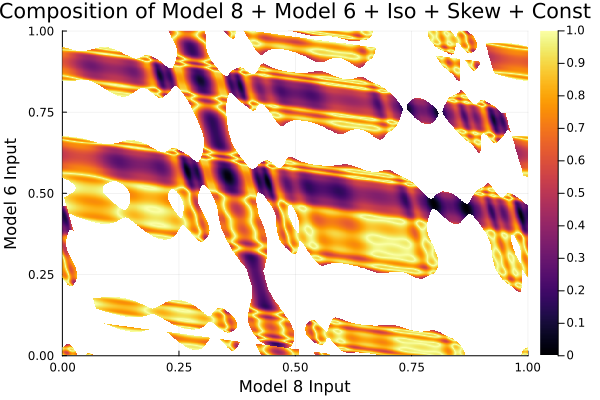
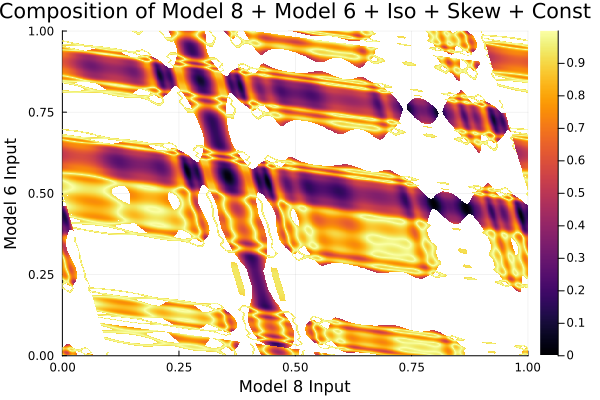
added fault descriptions

diff --git a/manuscript/manuscript.tex b/manuscript/manuscript.tex
@@ -165,29 +165,25 @@ Due to dynamic and adversarial simulation features, each simulation run is coupl
 
 The number of design inputs required for evaluating the simulation scenario is stored in the num\_inputs simulation object parameter after the simulation is constructed.
 
-A simulation run is performed by calling the sim\_eval function with the simulation object , the design parameters, the desired network path (Req. 13), and a fidelity level (Req. 17). This function reports a single value for the fitness score (Req. 5, 15) in the range [0, 1], with 0 being optimal (Req. 16). In the event of an infeasible solution, the fitness score is reported as NaN (Req. 6).
+A simulation run is performed by calling the sim\_eval function with the simulation object, the design parameters, the desired network path (Req. 13), and a fidelity level (Req. 17). This function reports a single value for the fitness score (Req. 5, 15) in the range [0, 1], with 1.0 being optimal (Req. 16). In the event of an infeasible solution, the fitness score is reported as NaN (Req. 6).
 
 After each simulation run, the simulation object parameter num\_function\_evals contains an updated cumulative number of function evaluations since the object was created (Req. 7).
 
 During simulation construction a log of the scenario features and configuration parameters is written to the filename provided in the logfile configuration parameter or the file "logfile.txt" by default (Req. 8).
 
+The foundational element for creating landscapes in the simulation are spline basic functions. Spline basic functions are randomly generated splines using the scenario seed (Req. 2). The number of knots in the spline are randomly chosen using the min and max knots input parameters. Knots are added in series using the equation: $y[1] = rand() - rand(); y[i] = y[i-1] * knot\_feedback + rand() - rand()$. The knot\_feedback parameter is a value between 0 and 1 that determines how autocorrelated each knot is to the previous knot. When querying a spline function, the input and output ranges are clamped [0.0, 1.0].
+
 \colorbox{yellow}{add table for sim configuration parameters}
 
-\colorbox{yellow}{describe simulation architecture.}
-
 \section{Simulation Features}
-
-\subsection{Spline Basic Functions}
-
-The foundational element for creating landscapes in the simulation are spline basic functions. Spline basic functions are randomly generated splines using the scenario seed (Req. 2). The number of knots in the spline are randomly chosen using the min and max knots input parameters. Knots are added in series using the equation: y[1] = rand() - rand(); y[i] = y[i-1] * knot\_feedback + rand() - rand(). The knot\_feedback parameter is a value between 0 and 1 that determines how autocorrelated each knot is to the previous knot. When querying a spline function, the input and output ranges are clamped [0.0, 1.0].
 
 \subsection{Governing Functions and Model Functions}
 
 The governing functions and model functions are created using the spline basic function generator (Req. 22, 23).
 The model response landscape is created by mapping design variable inputs to model function outputs through a governing function (Req. 24).
-For example, a governing function g(x) (Fig. \ref{fig:basic_eq_mdl_1_gov_fun}) is used to map input value x to model function f(u) (Fig. \ref{fig:basic_eq_mdl_1_mdl_fun}) resulting in a multi-featured model response landscape f(g(x)) (Fig. \ref{fig:basic_eq_mdl_1_mdl_resp}).
+For example, a governing function $g(x)$ (Fig. \ref{fig:basic_eq_mdl_1_gov_fun}) is used to map input value x to model function $f(u)$ (Fig. \ref{fig:basic_eq_mdl_1_mdl_fun}) resulting in a multi-featured model response landscape $f(g(x))$ (Fig. \ref{fig:basic_eq_mdl_1_mdl_resp}).
 Figure \ref{fig:landscape_mdl_19_mdl_resp} illustrates an example model response with many combined features: smooth, discontinuous, narrow and wide basins, shallow and deep basins, multi-modal, flattened, and non-linear (Req. 28). This example shows variable conditioning between the input and response (Req. 31), many potential optimal locations with values at 1.0 to support niching optimization methods (Req. 18), as well as multiple deceptive basins near 1.0 (Req. 29).
-Flattening may occur when a governing or model function is clamped in the range [0, 1], however additional random flattening can be injected using the enable\_flattening configuration parameter (Figure \ref{fig:flat_mdl_1_mdl_resp_flat}). Moreover, additional random discontinuity can be injected by randomly inverting regions using the enable\_inversion configuration parameter (Figure \ref{fig:invert_mdl_1_mdl_resp_invert}).
+Flattening may occur when a governing or model function is clamped in the range [0, 1], however additional random flattening can be injected using the enable\_flattening configuration parameter (Fig. \ref{fig:flat_mdl_1_mdl_resp_flat}). Moreover, additional random discontinuity can be injected by randomly inverting regions using the enable\_inversion configuration parameter (Fig. \ref{fig:invert_mdl_1_mdl_resp_invert}).
 
 \begin{figure}
 	\centering
@@ -259,6 +255,8 @@ During the creation of composition functions, pairs of dimensions are randomly c
 
 Feasibility constraints are created on coupled composition pairs using a constraint function. The constraint function is created using the spline basic function generator (Req. 32). One of the pair input values is selected as the constraint function input. Feasibily is determine by checking if the other pair input value is above or below (chosen at random for the constraint) of the spline response. The couple pair input values are transformed using their respective governing functions prior to evaluating the constraint function creating a varied feasibility landscape (Req. 33). Figure \ref{fig:2d_const_3_1_iso_skew_const} builds on the previous skewing example with additional infeasibility regions shown in white (Req. 34). Constraints are applied to pairs of inputs resulting in separable and non-separable constraints when more than one constraint is present (Req. 35).
 
+A couple margins are included to prevent a scenario in which there are no feasible optimal solutions. The first is an input margin controlled via the constraint\_input\_margin configuration parameter that requires the input variable enter the infeasible region by at least that amount before infeasibility is declared. The second margin is a small margin around optimal locations controlled via the constraint\_optimal\_margin configuration parameter. This margin results in small islands of optimal feasible solutions in Figure \ref{fig:2d_const_3_1_iso_skew_const}.
+
 \begin{figure}
 	\centering
 	\includegraphics[width=0.5\textwidth]{2d_const_3_1_iso_skew.png}
@@ -272,8 +270,30 @@ Feasibility constraints are created on coupled composition pairs using a constra
 	\caption{Composition function response with added feasibility constraint feature.}
 	\label{fig:2d_const_3_1_iso_skew_const}
 \end{figure}
+
+
 \subsection{Stochastic Features}
 
+
+\subsection{Semi-Cooperative Features}
+
+The simulation supports a variety of semi-cooperative features. These are features in which the simulation intentionally reports randomly incorrect results (Req. 68), to include feasibility or infeasibility (Req. 69), as well as fails to execute based on pre-determined fault injection thresholds (Req. 65).
+
+During scenario creation, some input dimensions are randomly selected to include fault injection with a corresponding failure threshold and magnitude. When a fault is present and the evaluated model response falls below the failure threshold the model response will be either degraded by scaling downward (Fig. \ref{fig:fault_mdl_5_mdl_resp_fault_degrade}) or will result in a simulation executive failure (Fig. \ref{fig:fault_mdl_8_mdl_resp_fault_029}). In the event of an executive failure the simulation will report 0.0 for the fitness score and will provide no indication that a failure was triggered. Fault via degradation and fault via executive failure result in separable and non-separable failure regions (Req. 66).
+
+\begin{figure}
+	\centering
+	\includegraphics[width=0.5\textwidth]{fault_mdl_5_mdl_resp_fault_degrade.png}
+	\caption{Example model fault resulting in degraded response.}
+	\label{fig:fault_mdl_5_mdl_resp_fault_degrade}
+\end{figure}
+
+\begin{figure}
+	\centering
+	\includegraphics[width=0.5\textwidth]{fault_mdl_8_mdl_resp_fault_0.29.png}
+	\caption{Example model complete failure triggered at locations where the model response falls below 0.29.}
+	\label{fig:fault_mdl_8_mdl_resp_fault_029}
+\end{figure}
 
 \subsection{Fitness Evaluation}
 
